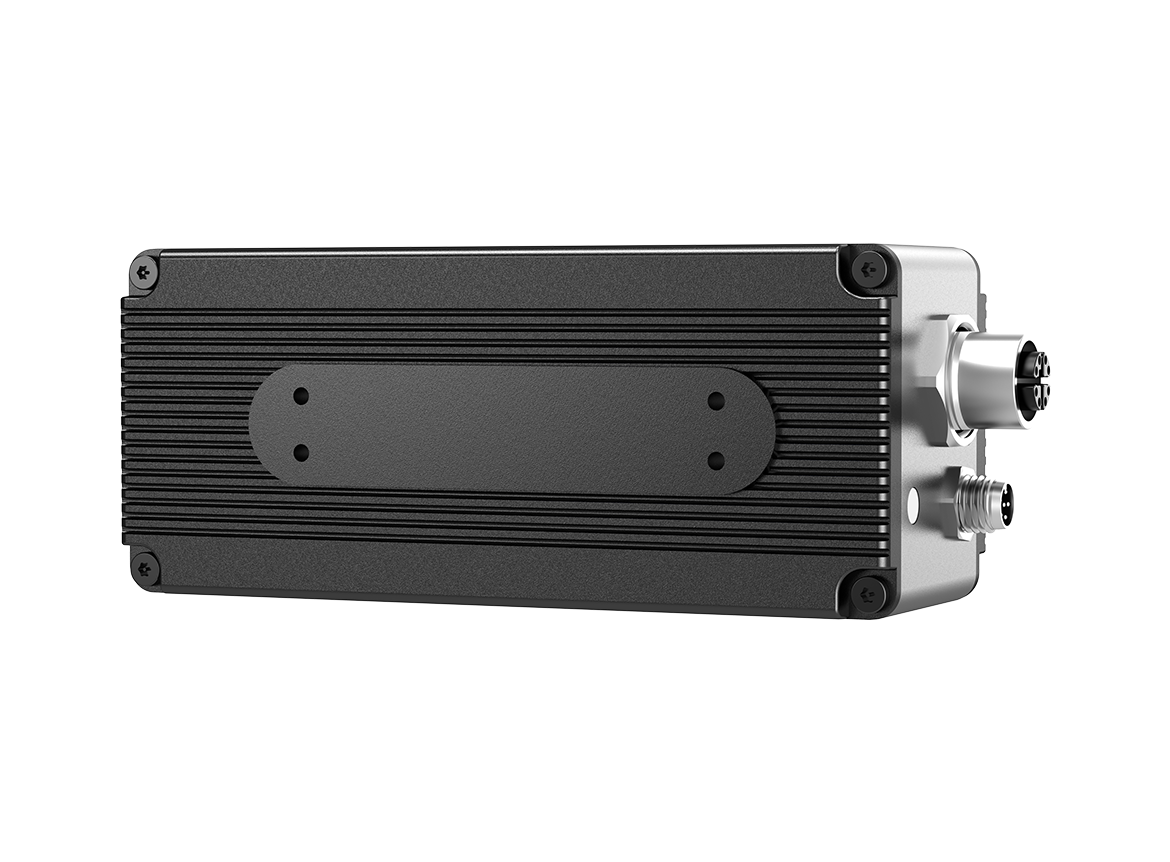
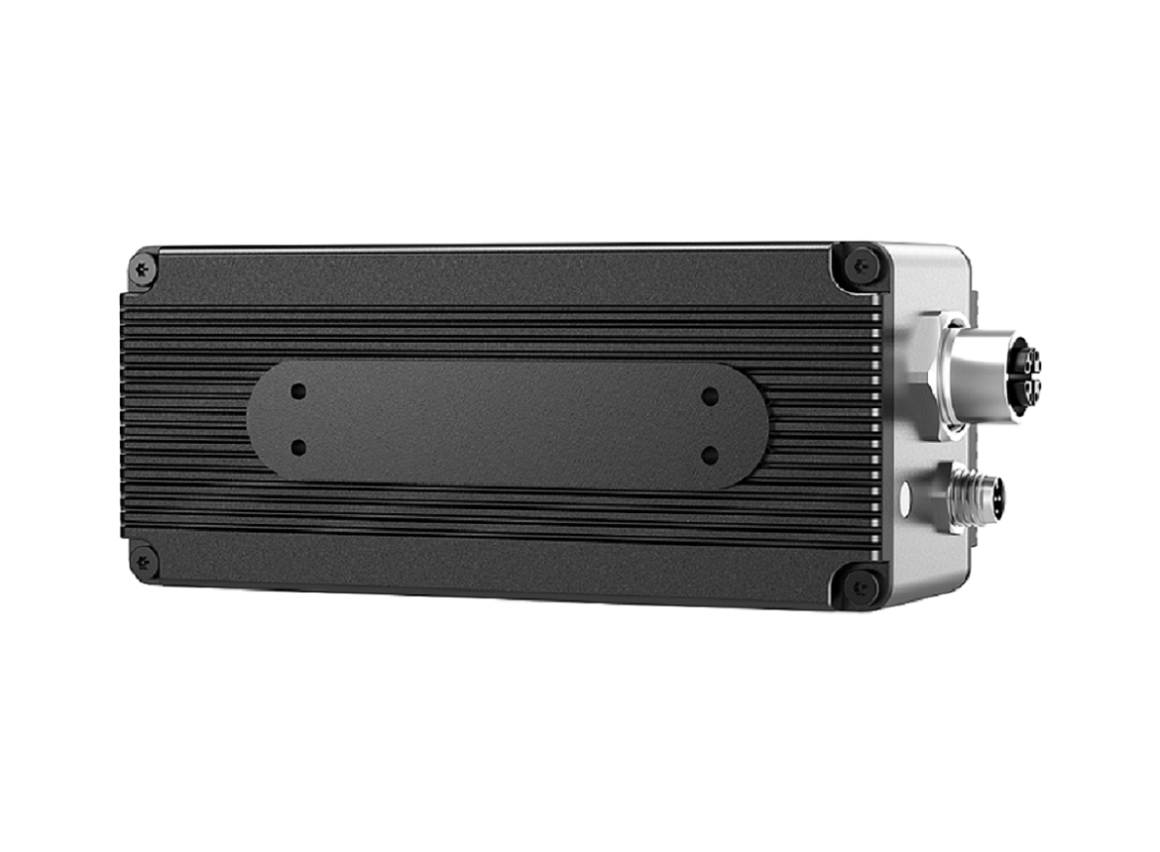
优化了Scepter图片；更改图片大小；

diff --git a/zh-cn/ProductIntroduction/DS86,87.md b/zh-cn/ProductIntroduction/DS86,87.md
@@ -8,11 +8,11 @@
 
 ## 2.1. 规格参数
 
-| 型号                    | DS86                                 | DS87                    |
-| :---------------------- | :------------------------------------- | :------------------------ |
-| 接口示意图              | ![DS86](pic/DS86.png)              | ![DS87](pic/DS87.png) |
-| 编号                    | DS86                                 | DS87                    |
-| 传感器                  | Sony DepthSense ToF CMOS               |                           |
+| 型号                      | DS86                                 | DS87                    |
+| :-------------------------| :----------------------------------- | :-----------------------|
+| 接口示意图                 |  ![DS86](pic/DS86.png)            | ![DS87](pic/DS87.png) |
+| 编号                      | DS86                                 | DS87                    |
+| 传感器                   | Sony DepthSense ToF CMOS              |                         |
 | 激光发射器              | 940nm VCSEL \* 2                       |                           |
 | ToF 分辨率/帧率         | 640\*480, Max.15fps                    |                           |
 | ToF HDR 模式            | 支持最高 10fps                         |                           |
@@ -27,8 +27,10 @@
 | 工作温度                | -20°C to +50°C                         |                           |
 | 操作系统与平台          | Windows/Linux/Arm Linux/ROS             |                           |
 | 开发语言                | C/C++/C#/Python                        |                           |
-| IP 防护等级             | **IP42**                               | **IP67**                  |
+| IP 防护等级             | **IP42**                               | **IP67**                  |                        
 | 认证和测试              | CE, FCC, FDA                           |                           |
+
+
 
 > 精度误差与检测距离随被测物体表面反射率的不同会有差异
 

diff --git a/zh-cn/ProductIntroduction/NYX650,660.md b/zh-cn/ProductIntroduction/NYX650,660.md
@@ -9,9 +9,9 @@
 ## 1.1. 规格参数
 
 | 型号                    | NYX650                                 | NYX660                    |
-| :---------------------- | :------------------------------------- | :------------------------ |
-| 接口示意图              | ![NYX650](pic/NYX650.png)              | ![NYX660](pic/NYX660.png) |
-| 编号                    | NYX650                                 | NYX660                    |
+| :----------------------| :------------------------------------- | :------------------------ |
+|  接口示意图              | ![NYX650](pic/NYX650.png)              | ![NYX660](pic/NYX660.png) |
+|  编号                    | NYX650                                 | NYX660                    |
 | 传感器                  | Nuvoton DepthSense ToF CMOS            |                           |
 | 激光发射器              | 940nm VCSEL \* 2                       |                           |
 | ToF 分辨率/帧率         | 640\*480, Max.30fps                    |                           |

diff --git a/zh-cn/ScepterGUITool/FunctionIntroduction.md b/zh-cn/ScepterGUITool/FunctionIntroduction.md
@@ -776,9 +776,6 @@ Step1:  选择“Obtain an IP address automatically（DHCP）”。
 
 ![set camera DHCP](<pic/set DHCP.png>)
 
-#### **Linux**
-
-![set camera DHCP](<pic/set DHCP_ubuntu.png>)
 
 <!-- tabs:end -->
 
@@ -798,9 +795,6 @@ Step1:  选择“Use the following IP address”。
 
 ![Use the following IP address](<pic/Use the following IP address.png>)
 
-#### **Linux**
-
-![Use the following IP address](<pic/Use the following IP address_ubuntu.png>)
 
 <!-- tabs:end -->
 
@@ -816,7 +810,13 @@ Step4: 设备自动重启后生效。
 
 Step1: 在 Time sync 一栏选择 NTP Server address。
 
+<!-- tabs:start -->
+
+#### **Windows**
+
 ![NTP](pic/NTP.png)
+
+<!-- tabs:end -->
 
 Step2: 输入对时服务器的地址。
 
@@ -828,7 +828,14 @@ Step3: 点击Set设置成功。
 
 Step1: 在 Time sync 一栏选择 PTP。
 
+<!-- tabs:start -->
+
+#### **Windows**
+
 ![PTP](pic/PTP.png)
+
+
+<!-- tabs:end -->
 
 Step2: 点击Set设置成功。
 
